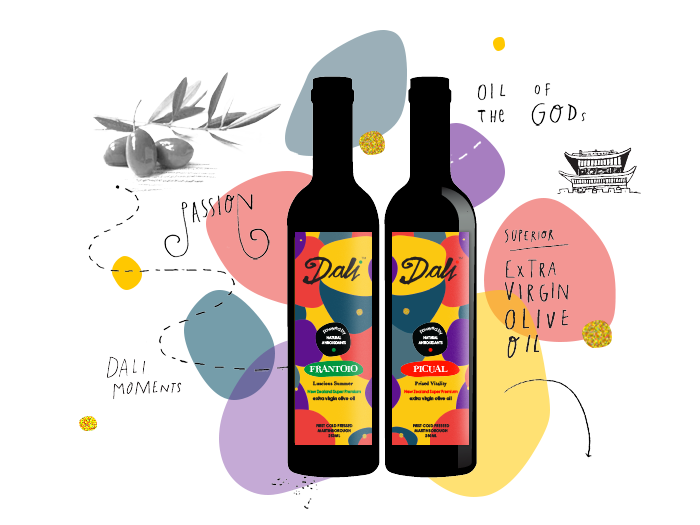
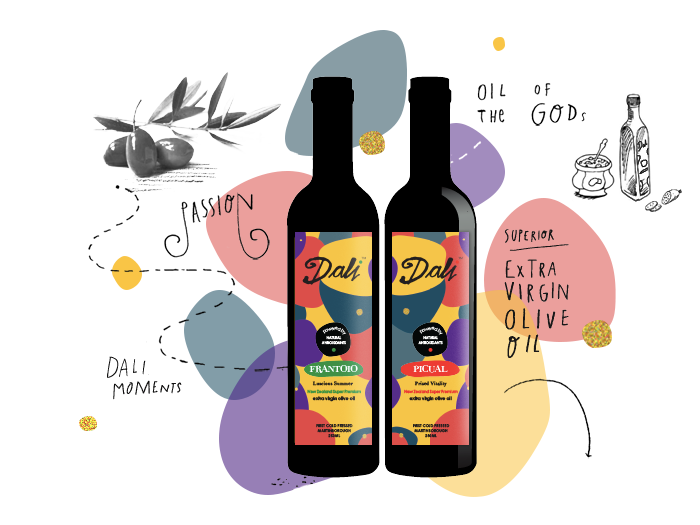
replaced images

diff --git a/index.html b/index.html
@@ -130,7 +130,7 @@
 				<div class="overflow-container">
 					<img src="pics/ship.png" style="margin-top:-100px" class="ml100">
 					<div class="title"><h1>super premium</h1></div>
-					<div class="left"><img src="pics/whydali.png"/></div>
+					<div class="left"><img src="pics/super-premium.png"/></div>
 					<div class="right">
 						<p>Extra Virgin Olive Oil (EVOO) is proven goodness – cold-milled, first extraction, no additives, infusions or impurities. EVOO demands highest standards in grove management, pressing and storage – and a certificate of approval.  See the red sticker on each bottle.</p>
 						<br>
